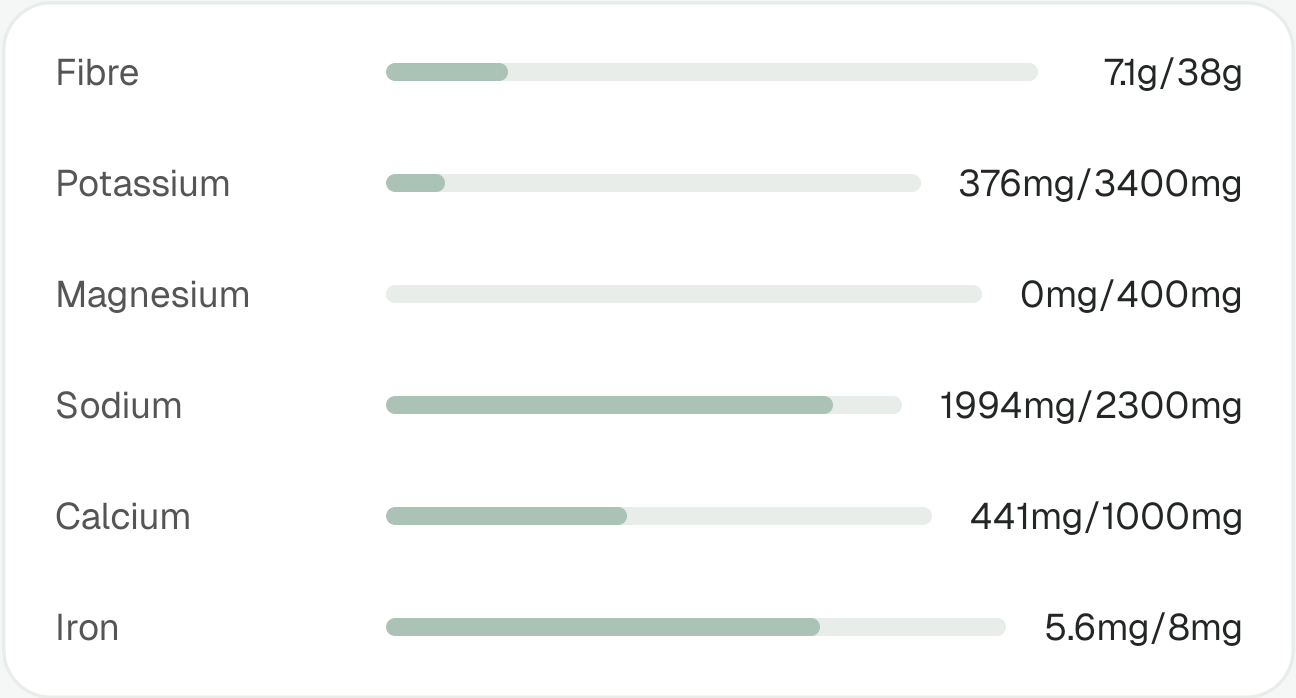
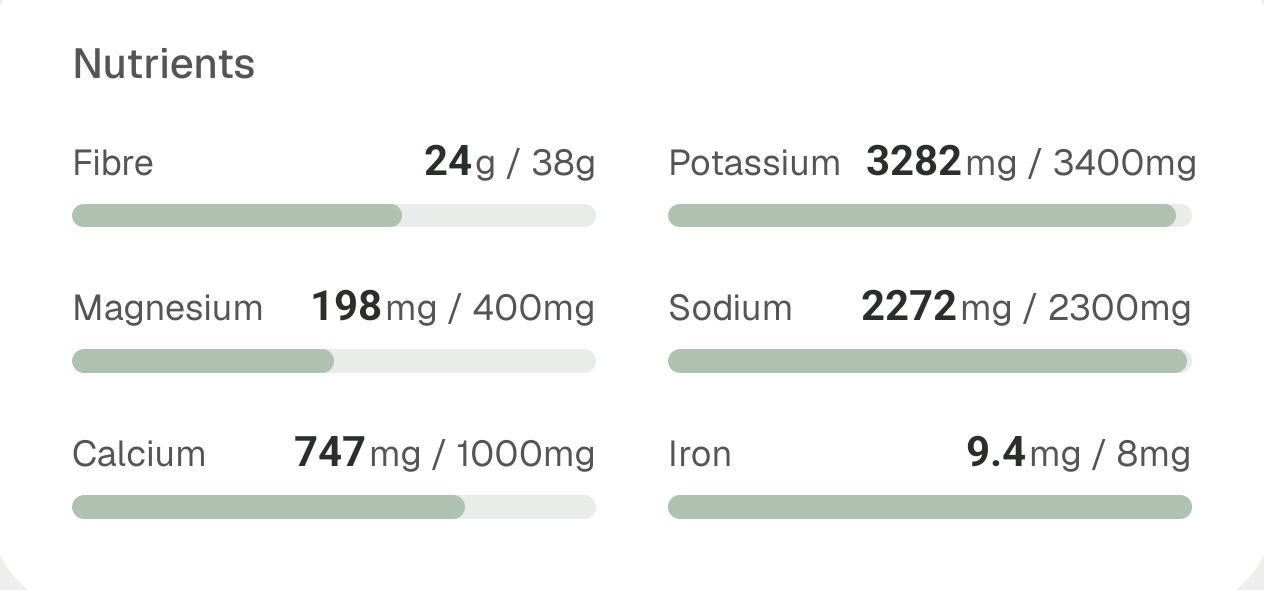
Recapture the app in its redesigned light theme and drop the hero frames
46 native 1344x2992 captures of the current build (light, plus six dark), taken
over adb on 2026-10-09. Scan, Label and Guest keep the September captures
because camera previews capture black and the guest flow needs a sign-out.

- Hero extracts are the app's own white cards floating on the page, since the
  site background is now the app's paper; no frame or bezel
- Hero crop offsets retuned; hero crops can erase headings so the 2.4:1 panel
  shows one card
- Feature-card panels recropped from the new Diary and Metrics captures
- Rail and feature alt text updated to the new numbers

diff --git a/src/content/landing/screen-rail.md b/src/content/landing/screen-rail.md
@@ -6,7 +6,7 @@ screens:
   - title: "Today at a glance"
     caption: "Calories, macros, water and the micronutrients you chose."
     image: ../../assets/screens/screen-today.webp
-    alt: "PocketChomp diary for Wednesday the 16th showing 2,034 of 2,054 calories, protein, fat and carb bars, water, and progress for fibre, potassium, magnesium, sodium, calcium and iron"
+    alt: "PocketChomp diary for Friday the 9th showing 1,765 of 1,879 calories, protein, fat and carb bars, a nutrients card for fibre, potassium, magnesium, sodium, calcium and iron, and water"
     tier: free
   - title: "Barcode scanning stays free"
     caption: "Point, scan, logged. No scan limit, no upgrade."
@@ -26,7 +26,7 @@ screens:
   - title: "Build the plate first"
     caption: "Adjust portions, set the time, confirm. Nothing is written until you do."
     image: ../../assets/screens/screen-plate.webp
-    alt: "PocketChomp plate of four items totalling 606 calories, with portion steppers for sliced bread, egg whites, half an avocado and a banana, a 10:00 AM time and an Add to Diary button"
+    alt: "PocketChomp plate sheet holding nachos with cheese at half a serving, 194 calories, a 10:00 AM time, and Save as meal and Add to Diary buttons"
     tier: free
   - title: "Your data stays on your device"
     caption: "No account needed. Cloud sync is a choice, not a condition."
@@ -39,13 +39,13 @@ screens:
     alt: "PocketChomp add food screen in airplane mode with an offline notice, and a chicken search still returning Health Canada, USDA and Kirkland results"
     tier: free
   - title: "Hide calories entirely"
-    caption: "Hide calories everywhere. Make protein the big number."
+    caption: "Hide calories everywhere, or pick a different number to lead with."
     image: ../../assets/screens/screen-metrics.webp
-    alt: "PocketChomp metrics settings with Hide Calories switched on and Protein selected as the diary's hero metric"
+    alt: "PocketChomp metrics settings with Hide Calories switched on and no hero metric selected for the diary"
     tier: free
   - title: "Targets that adapt"
     caption: "A weekly check-in sets next week's target from your real expenditure."
     image: ../../assets/screens/screen-plan.webp
-    alt: "PocketChomp plan showing the next check-in in 5 days, on track, a 2,054 kcal daily target, 2,466 kcal expenditure and a 412 kcal deficit"
+    alt: "PocketChomp plan showing recipe and food counts, a 1,879 kcal daily target with protein, fat and carb targets, and the next check-in in 3 days, on track"
     tier: plus
 ---

diff --git a/src/content/landing/hero.md b/src/content/landing/hero.md
@@ -12,7 +12,7 @@ accents:
     tint: carb
   - text: no catch.
     tint: ember
-description: Scan what is in your cart and it comes up, house brand and all. Log it in seconds, see every nutrient against your own targets, and keep the whole log on your phone.
+description: Scan what's in your cart and it comes up, house brand and all. Every nutrient against your targets, and the log stays on your phone.
 primaryCtaText: Join the beta
 primaryCtaLink: "#signup"
 secondaryCtaText: See how it works

diff --git a/src/content/landing/modular-feature.md b/src/content/landing/modular-feature.md
@@ -9,5 +9,5 @@ bullets:
   - Mindful mode hides calories across the whole app
 panelLabel: Straight from the app
 image: ../../assets/ui/ui-metrics-panel.webp
-imageAlt: PocketChomp metrics settings with Hide Calories switched on and protein chosen as the diary's hero number
+imageAlt: PocketChomp metrics settings with Hide Calories switched on and no hero metric chosen for the diary
 ---
